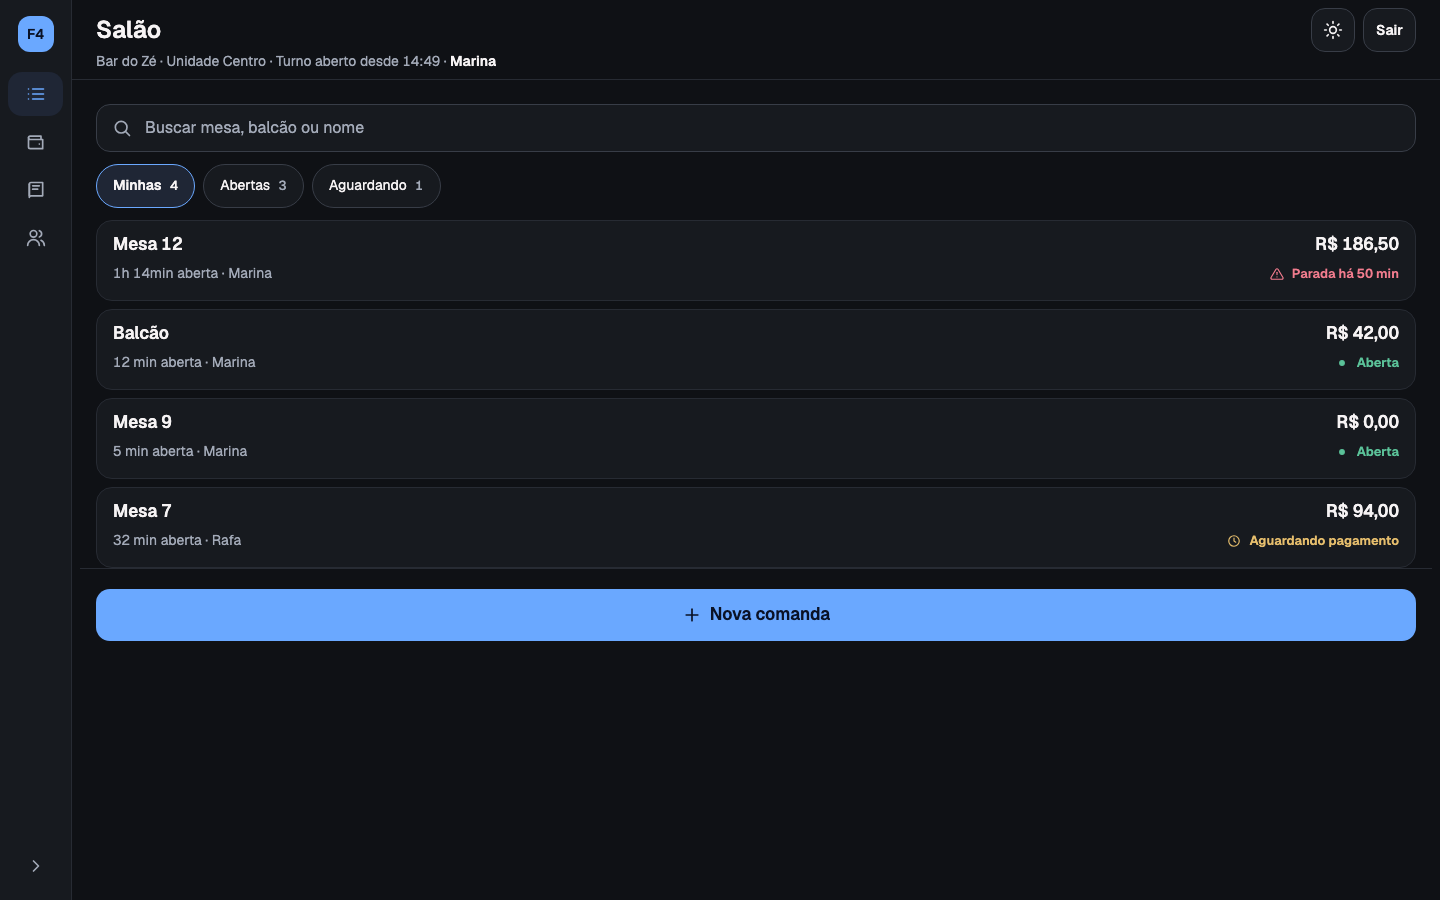
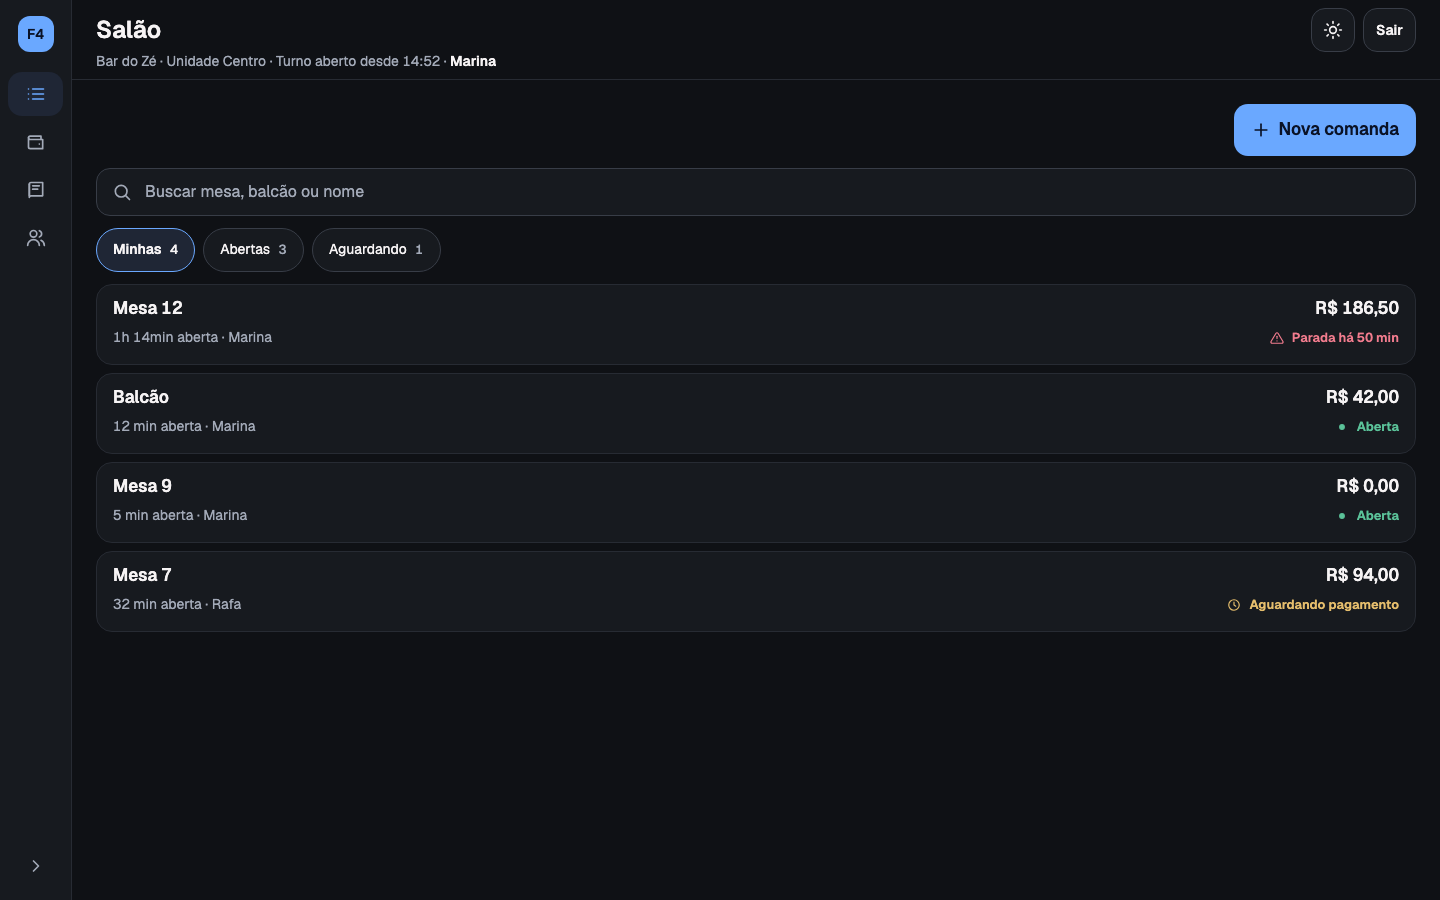
fix(front): F4-0135 Nova comanda is a natural-size top button outside the phone, constants and rail names tested
The phone's fixed full-width bar no longer leaks to tablet and computer. CORTE_COMPUTADOR_PLENO (1280) is exported and a test keeps app.css equal to it. Rail links carry aria-label. Touches of the ticket now list app.css and bundle-budget.json.
Bundle budget: CSS gzip ceiling 8.6 to 9.3 kB (measured 8.8, about 6% headroom as the gate convention says) because the side menu, rail and header rules are new CSS that must ship on every band; JS limits unchanged.

Changed region(s): [[0.0625, 0.2489, 1.0, 0.7156], [0.0625, 0.1244, 0.2812, 0.4044], [0.8438, 0.0933, 1.0, 0.1867]]

diff --git a/frontend/app/src/Shell.test.tsx b/frontend/app/src/Shell.test.tsx
@@ -1,3 +1,5 @@
+import { readFileSync } from "node:fs";
+import { CORTE_COMPUTADOR_PLENO } from "@flow4tech/design-system";
 import { act, screen, within } from "@testing-library/react";
 import userEvent from "@testing-library/user-event";
 import { afterEach, beforeEach, describe, expect, it, vi } from "vitest";
@@ -192,6 +194,18 @@ describe("the navigation follows the band of the window", () => {
     expect(screen.getByRole("button", { name: "Expandir o menu" })).toHaveAttribute("aria-expanded", "false");
   });
 
+  it("tablet rail: each icon-only link carries its name as aria-label", async () => {
+    larguraDaJanela(820);
+    stubRede(pronta);
+    await renderEm("/salao");
+
+    const nav = await screen.findByRole("navigation", { name: "Seções do salão" });
+
+    for (const nome of ["Comandas", "Caixa"]) {
+      expect(within(nav).getByRole("link", { name: nome })).toHaveAttribute("aria-label", nome);
+    }
+  });
+
   it("computer: the full menu, collapsible to the rail, and the choice is remembered", async () => {
     larguraDaJanela(1440);
     stubRede(pronta);
@@ -353,5 +367,20 @@ describe("nothing of one account stays for the next on the same phone", () => {
     await userEvent.click(await screen.findByRole("button", { name: "Sair" }));
     await screen.findByRole("heading", { level: 1, name: "Entrar" });
     expect(screen.queryByText(/descartadas/)).toBeNull();
+  });
+});
+
+describe("the stylesheet and the band constants agree", () => {
+  const css = readFileSync("src/app.css", "utf8");
+
+  it("widens the full menu at the constant of the design system", () => {
+    expect(css).toContain(`@media (min-width: ${CORTE_COMPUTADOR_PLENO}px)`);
+  });
+
+  it("drops the phone's fixed Nova comanda bar outside the phone band", () => {
+    const regra = css.match(/\.app-shell:not\(\[data-faixa="celular"\]\) \.comandas-acao \{([^}]*)\}/);
+
+    expect(regra?.[1]).toMatch(/position:\s*static/);
+    expect(regra?.[1]).toMatch(/border-top:\s*0/);
   });
 });

diff --git a/frontend/app/src/app.css b/frontend/app/src/app.css
@@ -51,6 +51,7 @@ body {
   --app-menu: 200px;
 }
 
+/* Mirrors CORTE_COMPUTADOR_PLENO (design-system faixa.ts); Shell.test.tsx keeps the two equal. */
 @media (min-width: 1280px) {
   .app-shell[data-menu="completo"] {
     --app-menu: 264px;
@@ -1266,4 +1267,25 @@ body {
 .conta-tipo {
   display: inline-flex;
   margin-right: var(--f4-space-2);
+}
+
+/* Tablet and computer: "Nova comanda" is a natural-size button at the top of the list, not the phone's fixed full-width bar. */
+.app-shell:not([data-faixa="celular"]) .comandas {
+  display: flex;
+  flex-direction: column;
+}
+
+.app-shell:not([data-faixa="celular"]) .comandas-acao {
+  position: static;
+  order: -1;
+  align-self: flex-end;
+  margin: 0 0 var(--f4-space-3);
+  padding: 0;
+  border-top: 0;
+  background: none;
+}
+
+.app-shell:not([data-faixa="celular"]) .comandas-acao .entry-submit {
+  width: auto;
+  margin-top: 0;
 }

diff --git a/frontend/design-system/src/faixa.test.ts b/frontend/design-system/src/faixa.test.ts
@@ -1,6 +1,13 @@
 import { act, renderHook } from "@testing-library/react";
 import { afterEach, describe, expect, it } from "vitest";
-import { CORTE_COMPUTADOR, CORTE_TABLET, faixaDaLargura, menuRecolhido, useFaixa } from "./faixa";
+import {
+  CORTE_COMPUTADOR,
+  CORTE_COMPUTADOR_PLENO,
+  CORTE_TABLET,
+  faixaDaLargura,
+  menuRecolhido,
+  useFaixa,
+} from "./faixa";
 
 function larguraDaJanela(px: number) {
   Object.defineProperty(window, "innerWidth", { configurable: true, writable: true, value: px });
@@ -10,7 +17,7 @@ afterEach(() => larguraDaJanela(1024));
 
 describe("faixaDaLargura (ADR-019: 500 and 1000 are the only cuts)", () => {
   it("keeps the cuts as the ADR names them", () => {
-    expect([CORTE_TABLET, CORTE_COMPUTADOR]).toEqual([500, 1000]);
+    expect([CORTE_TABLET, CORTE_COMPUTADOR, CORTE_COMPUTADOR_PLENO]).toEqual([500, 1000, 1280]);
   });
 
   it.each([

diff --git a/frontend/design-system/src/faixa.ts b/frontend/design-system/src/faixa.ts
@@ -3,6 +3,8 @@ import { useSyncExternalStore } from "react";
 /** The only width cuts of the app (ADR-019, px CSS, mobile-first). No screen uses another number. */
 export const CORTE_TABLET = 500;
 export const CORTE_COMPUTADOR = 1000;
+/** Inside the computer band, the full menu widens from here (prototype l. 1048/1050). CSS cannot read this constant: `app.css` mirrors it and a test keeps both equal. */
+export const CORTE_COMPUTADOR_PLENO = 1280;
 
 export type Faixa = "celular" | "tablet" | "computador";
 

diff --git a/frontend/app/src/Shell.tsx b/frontend/app/src/Shell.tsx
@@ -106,6 +106,7 @@ function Navegacao({ tabs, faixa, recolhido }: { tabs: readonly TabItem[]; faixa
           to={tab.to}
           className="app-tab"
           title={recolhido ? tab.label : undefined}
+          aria-label={recolhido ? tab.label : undefined}
           activeOptions={{ exact: true }}
           activeProps={{ "aria-current": "page" }}
         >

diff --git a/frontend/design-system/src/index.ts b/frontend/design-system/src/index.ts
@@ -17,6 +17,7 @@ export { type Tone, ToneBadge } from "./components/ToneBadge";
 export { UndoToast, type UndoToastProps } from "./components/UndoToast";
 export {
   CORTE_COMPUTADOR,
+  CORTE_COMPUTADOR_PLENO,
   CORTE_TABLET,
   type EscolhaDoMenu,
   type Faixa,

diff --git a/.scratch/S-05-gestao-web-e-telas/issues/F4-0135-adaptive-shell.md b/.scratch/S-05-gestao-web-e-telas/issues/F4-0135-adaptive-shell.md
@@ -2,7 +2,7 @@
 
 **What to build:** block R2 of slice S-05 (see the spec).
 **Blocked by:** F4-0134
-**Touches:** frontend/app/src/Shell.tsx, frontend/design-system/**
+**Touches:** frontend/app/src/Shell.tsx, frontend/design-system/**, frontend/app/src/app.css, frontend/app/bundle-budget.json
 **Nature:** ui
 **tdd-scope:** required
 **Status:** ready-for-agent
